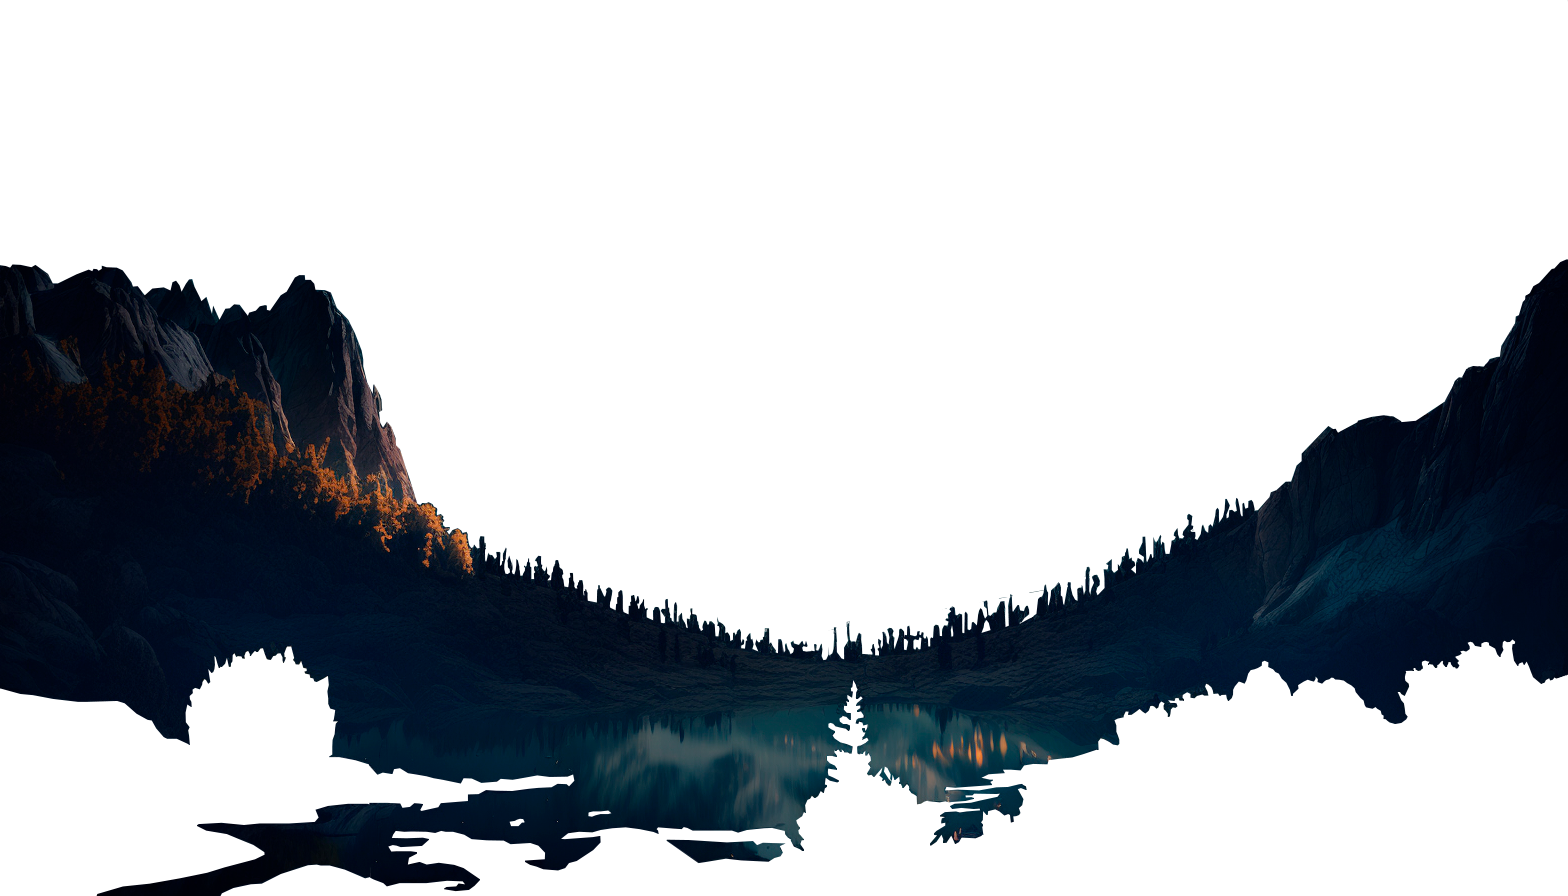
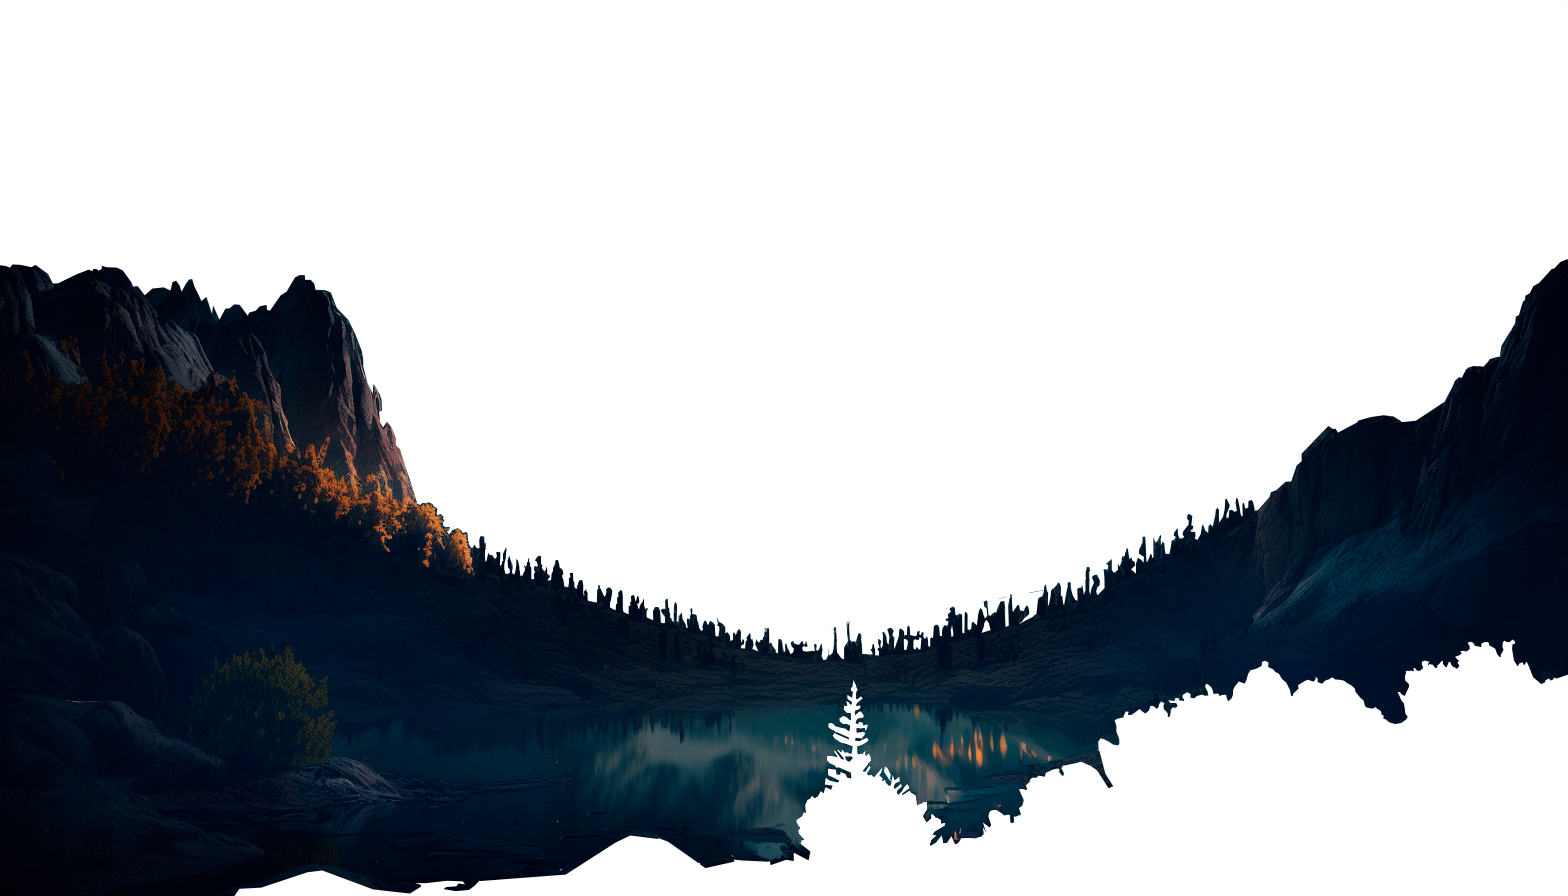
Second commit

Changed region(s): [[0.0, 0.7188, 0.5312, 1.0], [0.5625, 0.8438, 0.7188, 0.9375], [0.5312, 0.8438, 0.5625, 0.875]]

diff --git a/index.html b/index.html
@@ -14,14 +14,18 @@
 <body>
 
 <header class="main-header">
+  
     <div class="layers">
+  
+      <div class="layer layers__base" style="background-image: url(img/fon-norm.png);"></div>
+      <div class="layer layers__middle" style="background-image: url(img/2l.png);"></div>
+      <div class="layer layers__front" style="background-image: url(img/1l.png);"></div>
+     
       <div class="layer_header">
         <div class="layers__caption">Welcome</div>
         <div class="layers__title">To my first site</div>
       </div>
-      <div class="layer layers__base" style="background-image: url(img/fon-norm.png);"></div>
-      <div class="layer layers__title" style="background-image: url(img/2L.png);"></div>
-      <div class="layer layers__front" style="background-image: url(img/beautiful_landscape_night_mountains_4k_cec5f072-e7d3-476d-acd4-fc02c35c0813.png);"></div>
+
     </div>
 </header>
 

diff --git a/css/main.css b/css/main.css
@@ -47,16 +47,24 @@ z-index: 2;
   transform: translate3d(0, calc(var(--scrollTop)/1.6), 0);
   z-index: 0;
 }
-.layers__title {
+.layers__middle {
   transform: translate3d(0, calc(var(--scrollTop)/2.5), 0);
 }
 .layers__front {
-  transform: translate3d(0, calc(var(--scrollTop)/1.6) 0);
+  transform: translate3d(0, calc(var(--scrollTop)/5.7) 0);
 }
 
 .layer__header {
   z-index: 1;
   transform: translate3d(0, calc(var(--scrollTop)/2), 0);
+}
+
+.layers__title {
+  transform: translate3d(0, calc(var(--scrollTop)/2.5), 0);
+}
+
+.layers__caption  {
+  transform: translate3d(0, calc(var(--scrollTop)/2.5), 0);
 }
 
 .main-article{
